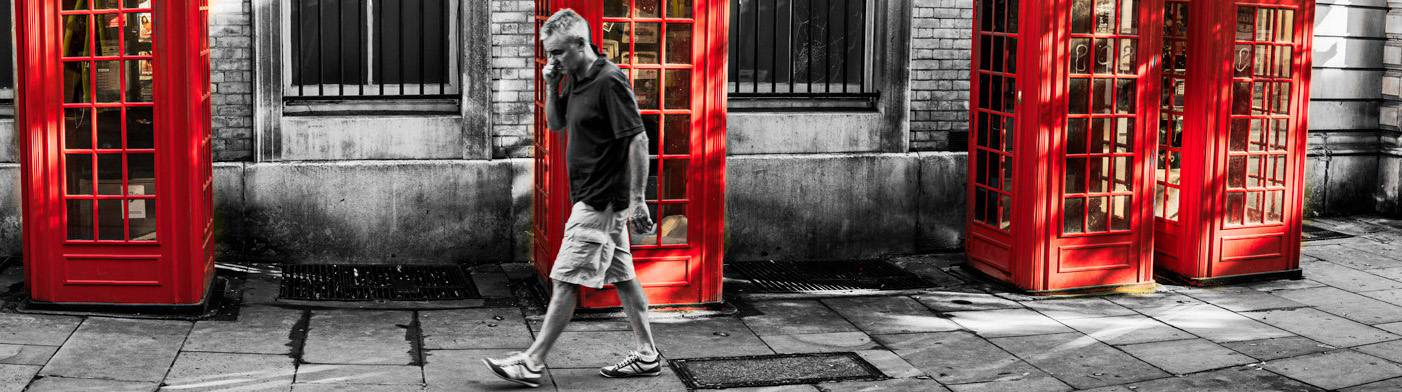
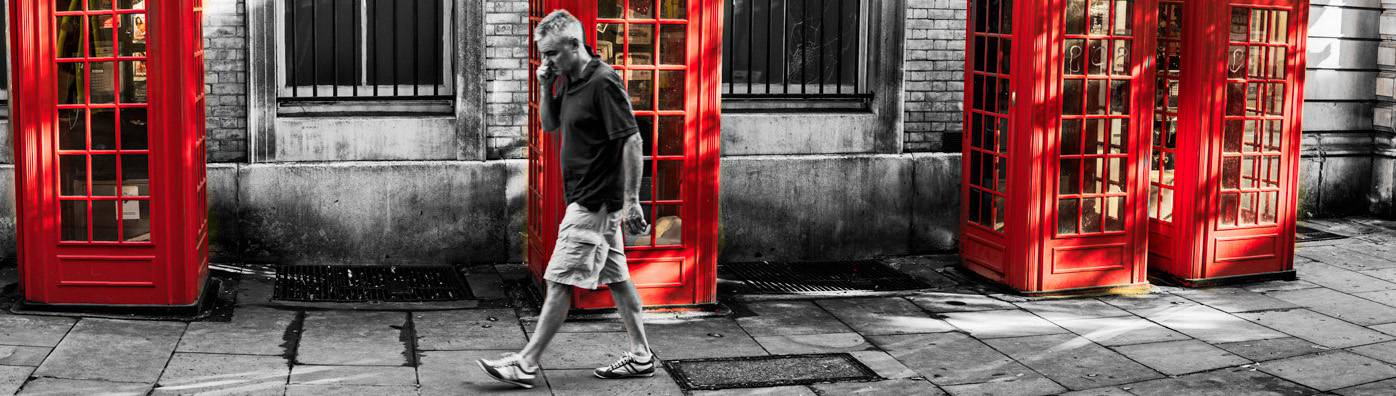
modified adult page and reset the branch

diff --git a/child.html b/child.html
@@ -2,11 +2,11 @@
 	<html lang="pt-br">
 	<head>
 		<title>
-			;:Fonoaudióloga Tanise Cristaldo:;
+			.:Fonoaudióloga Tanise Cristaldo:.
 		</title>
 		<link rel="stylesheet" type="text/css" href="styleChild.css" />	
 		<link rel="shortcut icon" href="icon/speech_bubble.png">
-		<link href='http://fonts;googleapis.com/css?family=Vollkorn' rel='stylesheet' type='text/css'>
+		<link href='http://fonts.googleapis.com/css?family=Vollkorn' rel='stylesheet' type='text/css'>
 		<meta charset="UTF-8">
 		<meta name="viewport" content="width=device-width, initial-scale=1, maximum-scale=1">
 		<meta name="robots" content="all,index,follow" />
@@ -22,7 +22,7 @@
 				<ul>
 					<li><img src="icon/child2.png" width="25" height="30"</img></li>				
 				
-					<li><a href="index;html">
+					<li><a href="index.html">
 					<img src="icon/home.png" width="20" height="20"</img>	
 					</a></li>
 					
@@ -30,10 +30,10 @@
 
 
 					
-					<li><a href="contact;html" title="Veja nosso Contato e Endereço"> Contato </a></li>
+					<li><a href="contact.html" title="Veja nosso Contato e Endereço"> Contato </a></li>
 				
-					<li><a href="fono;html" title="Como é realizado a Fonoterapia?">
-					<img src="icon/info;png" width="20" height="20"</img>	
+					<li><a href="fono.html" title="Como é realizado a Fonoterapia?">
+					<img src="icon/info.png" width="20" height="20"</img>	
 					</a></li>				
 	
 					<li><a href="https://www.facebook.com/pages/Fono-Tanise-Cristaldo-Anhaia/393480357457935?fref=ts"  target="_blank" title="Curta a nossa página">
@@ -66,21 +66,21 @@
 	
 				<div id="layer2" >		
 					<h2>Linguagem (oral e escrita)</h2>
-					<h3>Tem dois anos e não fala; Diz poucas palavras ou comunica por gestos;</h3>
+					<h3>Tem dois anos e não fala. Diz poucas palavras ou comunica por gestos;</h3>
 					<h3>Parece não perceber o que as pessoas lhe dizem;</h3>
 					<h3>É distraída e não presta atenção ao que a rodeia;</h3>
 					<h3>Troca/omite sons ou partes da palavra;</h3>
 					<h3>Não constrói frases;</h3>
 					<h3>Troca sons ou letras quando está lendo ou a escrevendo;</h3>
 					<h3>Apresenta erros ortográficos com bastante frequência;</h3>
-					<h3>Não gosta de ler e/ou escrever; Demora muito tempo para fazê-lo?</h3>									
+					<h3>Não gosta de ler e/ou escrever. Demora muito tempo para fazê-lo?</h3>									
 				</div>
 				
 				<div id="layer4">
 					<h2>Voz</h2>
 					<h3>Fica muitas vezes sem voz;</h3>
-					<h3>Tem uma voz rouca; Esforça-se para falar;</h3>
-					<h3>Grita muito; Sente dores de garganta e sensação de corpo estranho;</h3>
+					<h3>Tem uma voz rouca. Esforça-se para falar;</h3>
+					<h3>Grita muito. Sente dores de garganta e sensação de corpo estranho;</h3>
 					<h3>Tem problemas de tireóide ou nas pregas vocais;</h3>
 				</div>
 				
@@ -88,16 +88,16 @@
 					<h2>Perturbação da fluência – Gagueira</h2> 
 					<h3>Evidencia sinais claros de gagueira;</h3>
 					<h3>Quando fala, bloqueia ou repete muitas vezes o mesmo som, sílaba ou palavras;</h3>
-					<h3>Isola-se muito; Tem medo ou vergonha de falar em público;</h3>
+					<h3>Isola-se muito. Tem medo ou vergonha de falar em público;</h3>
 				</div>
 
 				<div id="layer6">
 					<h2>Motricidade oro-facial/ respiração/ mastigação e deglutição</h2> 
 					<h3>Respira sempre pela boca;</h3>
 					<h3>Não consegue soprar ou dar um beijo;</h3>
-					<h3>Mantém/manteve hábitos orais (chupar chupeta, dedo e/ou língua, roer as unhas etc;);</h3> 
+					<h3>Mantém/manteve hábitos orais (chupar chupeta, dedo e/ou língua, roer as unhas etc.);</h3> 
 					<h3>Baba-se com frequência;</h3>
-					<h3>Tem dificuldade em mastigar evitando alimentos mais sólidos (ex; carne);</h3>
+					<h3>Tem dificuldade em mastigar evitando alimentos mais sólidos (ex. carne);</h3>
 					<h3>Tem dificuldades em engolir (deglutir) e/ou engasga-se com alimentos sólidos ou líquidos;</h3>
 					<h3>O bebê tem dificuldades em pegar na mama ou sugar;</h3>	
 					<h3>Troca ou distorce algum som;</h3>
@@ -111,7 +111,7 @@
 					<h3>A mãe teve Rubéola na gravidez;</h3>
 					<h3>A criança fez uso de medicação ototóxica (medicamentos que podem causar perda auditiva);</h3>
 					<h3>Apresenta dores de ouvido com bastante freqüência;</h3>
-					<h3>Quando está em ambientes ruidosos apresenta dificuldades de entender o que está sendo dito;</h3>
+					<h3>Quando está em ambientes ruidosos apresenta dificuldades de entender o que está sendo dito.</h3>
 				</div>
 
 				<div id="footer">

diff --git a/adult.html b/adult.html
@@ -2,11 +2,11 @@
 	<html lang="pt-br">
 	<head>
 		<title>
-			;:Fonoaudióloga Tanise Cristaldo:;
+			.:Fonoaudióloga Tanise Cristaldo:.
 		</title>
 		<link rel="stylesheet" type="text/css" href="styleAdult.css" />	
 		<link rel="shortcut icon" href="icon/speech_bubble.png">
-		<link href='http://fonts;googleapis.com/css?family=Vollkorn' rel='stylesheet' type='text/css'>
+		<link href='http://fonts.googleapis.com/css?family=Vollkorn' rel='stylesheet' type='text/css'>
 		<meta charset="UTF-8">
 		<meta name="viewport" content="width=device-width, initial-scale=1, maximum-scale=1">
 		<meta name="robots" content="all,index,follow" />
@@ -22,16 +22,16 @@
 				<ul>
 					<li><img src="icon/prof2.png" width="30" height="30"</img></li>				
 				
-					<li><a href="index;html">
+					<li><a href="index.html">
 					<img src="icon/home.png" width="20" height="20"</img>	
 					</a></li>
 					
-					<li><a href="http://buscatextual.cnpq.br/buscatextual/visualizacv;do?metodo=apresentar&id=K4217617Y1" target="_blank" title="Currículo"> Currículo </a></li>
+					<li><a href="http://buscatextual.cnpq.br/buscatextual/visualizacv.do?metodo=apresentar&id=K4217617Y1" target="_blank" title="Currículo"> Currículo </a></li>
 
 
-					<li><a href="contact;html" title="Veja nosso Contato e Endereço"> Contato </a></li>
+					<li><a href="contact.html" title="Veja nosso Contato e Endereço"> Contato </a></li>
 			
-					<li><a href="fono;html" title="Como é realizado a Fonoterapia?">
+					<li><a href="fono.html" title="Como é realizado a Fonoterapia?">
 					<img src="icon/info.png" width="20" height="20"</img>	
 					</a></li>
 
@@ -57,20 +57,13 @@
 		<div id="container">
 			<div id="content">
 			
-				<div id="layer0" >	
-				</div>
 				
-
+				<div id="layer1">	
+				</div>
 
 				<div id="layer12" ">	
 					<h1>Casos em que o Adulto precisa procurar um Fonoaudiólogo</h1>
 				</div>
-				
-
-
-
-
-					
 				
 				<div id="layer2" style="width: 50%; height: 50%; float: left">
 					<h2>Motricidade orofacial</h2>
@@ -90,8 +83,10 @@
 				<div id="layer3" >
 					<h2>Linguagem</h2>
  					<h3>Quando apresenta gagueira;</h3>
-					<h3>Em casos de AVCs (Derrames), Traumatismos Crânioencefálicos e Demências (Parkinson, Alzheimer),
-					onde o indivíduo tem sua fala comprometida;</h3>
+					<h3>Em casos de AVCs (Derrames);</h3>
+					<h3>Traumatismos Crânioencefálicos;</h3> 
+					<h3>Demências (Parkinson, Alzheimer);</h3>
+					<h3>Onde o indivíduo tem sua fala comprometida;</h3>
 				</div>
 				
 				
@@ -99,9 +94,9 @@
 				<div id="layer4" style="width: 50%; height: 50%; float:left">
 					<h2>Audição</h2>
 					<h3>Quando suspeitar de alguma dificuldade de audição, como por exemplo:  </h3>
-					<h3>Não responder ao chamado, principalmente quando estiver longe ou de costas; </h3>
-					<h3>Ouvir televisão com volume alto; </h3>
-					<h3>Mostrar-se desatento;</h3>
+					<h3>não responder ao chamado, principalmente quando estiver longe ou de costas; </h3>
+					<h3>ouvir televisão com volume alto; </h3>
+					<h3>mostrar-se desatento; </h3>
 				</div>
 
 				<div id="layer41" > 
@@ -114,8 +109,8 @@
 					<h2>Voz</h2> 
 					<h3>Perder a voz com facilidade; </h3>
 					<h3>Em casos de rouquidão por mais de 15 dias; </h3>
-					<h3>Cansaço constante ao falar;</h3>
-					<h3>Em casos de rouquidão após o uso prolongado da voz;</h3>
+					<h3> Cansaço constante ao falar;</h3>
+					<h3> Em casos de rouquidão após o uso prolongado da voz.</h3>
 				</div>
 
 				<div id="layer6" > 

diff --git a/old.html b/old.html
@@ -71,16 +71,16 @@
 					<h2>Audição</h2>
 					<h3>No caso de perda auditiva:</h3>
 					<h3>A reabilitação auditiva promove a melhora da comunicação;</h3> 
-					<h3>E consequentemente da qualidade de vida em idosos.</h3>
+					<h3>E consequentemente da qualidade de vida em idosos;</h3>
 				</div>
 
 				
 				<div id="layer3" style="width: 50%; height: 50%; float:left">
 					<h2>Linguagem</h2>
  					<h3>Na reabilitação da linguagem em doenças como: </h3>
-					<h3>Parkinson, </h3>
-					<h3>Alzheimer, </h3>
-					<h3>AVC (derrame), entre outras.</h3>
+					<h3>Parkinson; </h3>
+					<h3>Alzheimer; </h3>
+					<h3>AVC (derrame), entre outras;</h3>
 				</div>
 				
 				<div id="layer31">
@@ -93,7 +93,7 @@
 					<h2>Motricidade Orofacial</h2>
 					<h3>Quando apresentar disfagia (dificuldade de deglutição);</h3>
 					<h3>Episódios de engasgos frequentes;</h3>
-					<h3>Que também a caracterizam, podendo interferir diretamente na saúde física e nutriciona do idoso.</h3>
+					<h3>Que também a caracterizam, podendo interferir diretamente na saúde física e nutriciona do idoso;</h3>
 					
 				</div>
 				

diff --git a/index.html b/index.html
@@ -10,14 +10,6 @@
 		<meta charset="UTF-8">
 		<meta name="viewport" content="width=device-width, initial-scale=1, maximum-scale=1">
 		<meta name="robots" content="all,index,follow" />
-		<meta name="keywords" content="fonoaudiólogo porto alegre, fonoaudiologo porto alegre centro,
-									   fonoaudióloga porto alegre, fonoaudiologa porto alegre centro,
-										Tanise Cristaldo Anhaia, Tanise Anhaia, Tanise Cristaldo,
-									   fono Tanise, fono, fono Tanise Anhaia, fono Tanise Cristaldo,
-										fonoaudiologa para crianças poa, fonoaudiologa para adultos poa,
-										fonoaudiologa para idosos poa, fonoaudiologa para cantores poa,
-										convênio geap, consultório fonoaudiologa, consultório fonoaudiologia
-										consultório fonoaudiologia poa">
 	<head>
 
 	<body>

diff --git a/prof.html b/prof.html
@@ -64,10 +64,10 @@
 				
 				<div id="layer12" ">	
 					<h2>São aqueles que dependem da voz como seu instrumento de trabalho </h2>
-					<h2>E que necessitam de um tipo específico de qualidade vocal para manter-se na função como:</h2>
-					<h2>Professores, Operadores de Telemarketing,</h2> 
-					<h2>Locutores, Jornalistas, Políticos,</h2>
-					<h2>Cantores, Atores, Dubladores.</h2>
+					<h2>e que necessitam de um tipo específico de qualidade vocal para manter-se na função como:</h2>
+					<h2>Professores, Operadores de telemarketing;</h2> 
+					<h2>Locutores, jornalistas, políticos;</h2>
+					<h2>Cantores, Atores, Dubladores;</h2>
 				</div>
 
 

diff --git a/styleAdult.css b/styleAdult.css
@@ -127,19 +127,16 @@ body {
 }
 
 
-#layer0 {
-	margin-top: 50px;
-	background: url(pictures/adult/tel1.jpg) no-repeat center top;
-	background-size: 100%;	
+#layer1 {
+	margin-top: 40px;
+	background: url(pictures/adult/tel1.jpg) no-repeat center;
+	background-size: 100%;		
 	height: 60%;
-	
 }
 
 
-
-
 #layer12 {
-	margin-top: 50px;
+	margin-top: 40px;
 	height: 20%;	
 }
 
@@ -149,7 +146,7 @@ body {
 }
 
 #layer21 {
-	background: url(pictures/adult/casal.jpg) no-repeat right top;
+	background: url(pictures/adult/casal.jpg) no-repeat right top ;
 	background-size: 50%;
 	height: 65%;	
 }
